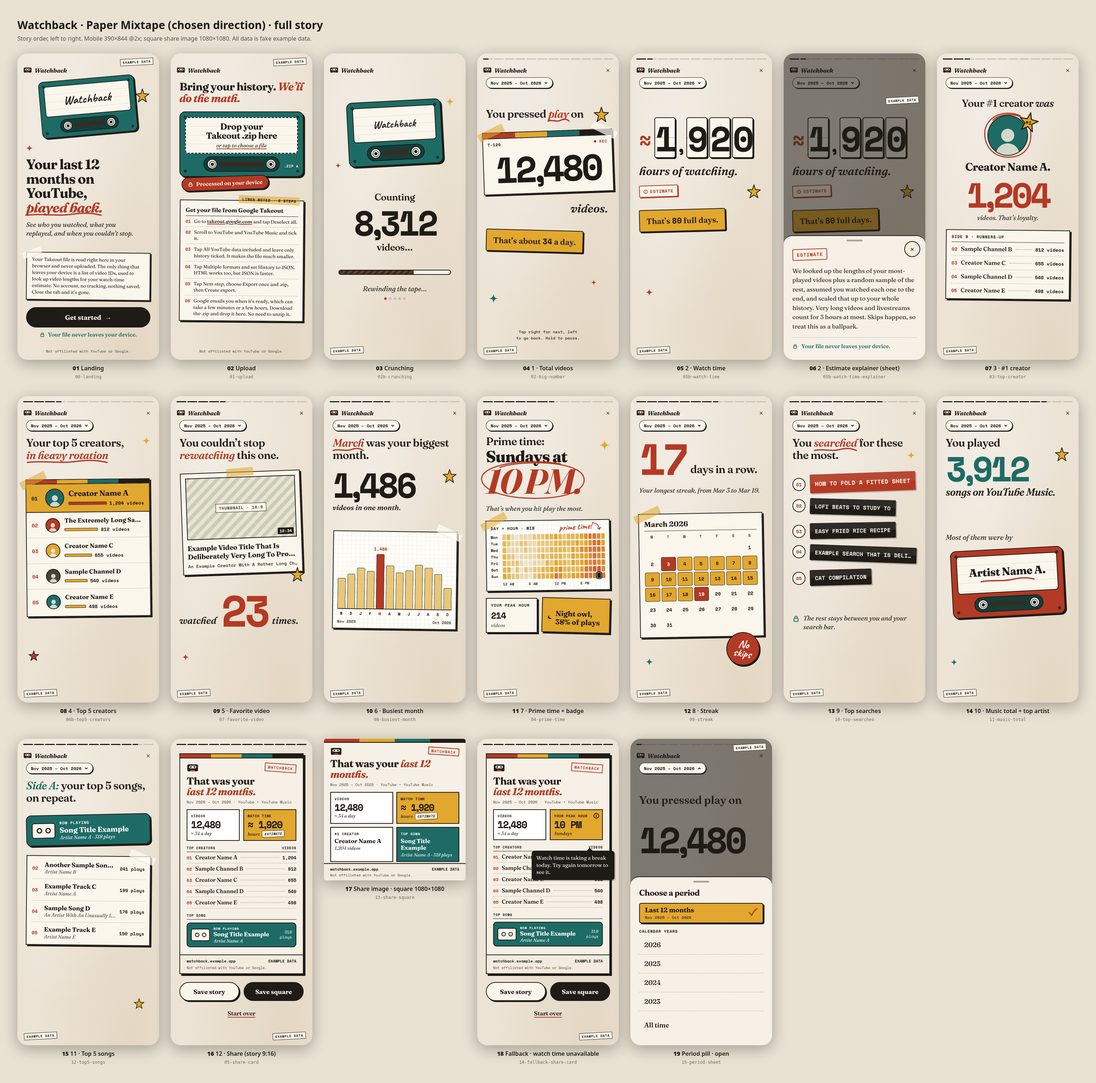
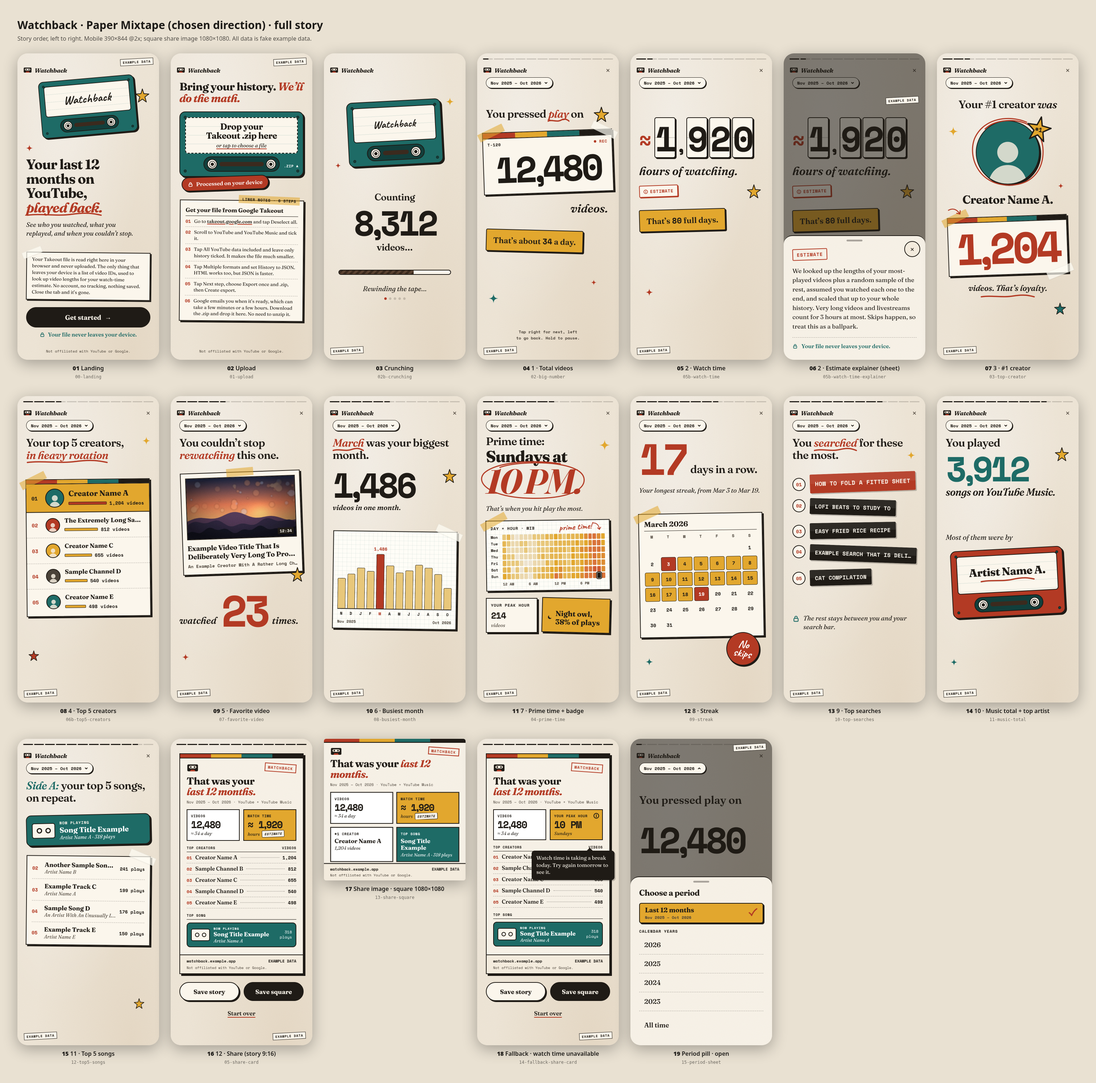
design: drop runners-up from #1 creator slide; real 16:9 thumbnail via /api/thumb on favorite video
- 03-top-creator: runners-up list removed (they live on 06b); bigger avatar,
  120px count in a taped VHS-style sticker, hand underline and doodles
- 07-favorite-video: abstract generated stand-in image (B/gen_thumb.py,
  B/img/thumb-example.jpg) in the taped frame, object-fit cover, alt = title
- SPEC: VideoThumb (source /api/thumb/{id}, 16:9 cover, placeholder fallback
  on error or >3s, alt from title, same-origin for html-to-image export);
  deco.runnersUp now unused
- Re-render 03, 07 and B-contact-full.png

Changed region(s): [[0.841, 0.0935, 0.9967, 0.2806], [0.1557, 0.4365, 0.2803, 0.4988]]

diff --git a/design/B/03-top-creator.html b/design/B/03-top-creator.html
@@ -1,37 +1,37 @@
 <!doctype html><html><head><meta charset="utf-8"><meta name="viewport" content="width=390"><link rel="stylesheet" href="style.css"><style>
-.wrap{padding-top:120px;text-align:center}
-.h{font-size:28px;font-weight:600;letter-spacing:-.02em}
+.wrap{padding-top:122px;text-align:center}
+.h{font-size:30px;font-weight:600;letter-spacing:-.02em}
 .h em{font-style:italic}
-.avw{position:relative;width:112px;height:112px;margin:16px auto 0}
-.av{width:112px;height:112px;border-radius:50%;background:var(--teal);border:2.5px solid var(--ink);overflow:hidden;display:flex;align-items:flex-end;justify-content:center}
-.stamp{position:absolute;right:-30px;top:-10px;transform:rotate(12deg);width:56px;height:56px}
-.stamp span{position:absolute;inset:0;display:grid;place-items:center;font-family:var(--mono);font-weight:700;font-size:14px;padding-top:4px}
-.name{font-size:30px;font-weight:700;letter-spacing:-.02em;margin-top:12px;position:relative;display:inline-block;max-width:100%}
+.avw{position:relative;width:176px;height:176px;margin:26px auto 0}
+.av{width:176px;height:176px;border-radius:50%;background:var(--teal);border:2.5px solid var(--ink);box-shadow:var(--sh-sticker);overflow:hidden;display:flex;align-items:flex-end;justify-content:center}
+.stamp{position:absolute;right:-34px;top:-14px;transform:rotate(12deg);width:72px;height:72px}
+.stamp span{position:absolute;inset:0;display:grid;place-items:center;font-family:var(--mono);font-weight:700;font-size:17px;padding-top:5px}
+.name{font-size:32px;font-weight:700;letter-spacing:-.02em;margin-top:22px;max-width:100%}
 .name .t{display:-webkit-box;-webkit-line-clamp:1;-webkit-box-orient:vertical;overflow:hidden}
-.count{color:var(--tomato);margin-top:6px}
-.line{font-size:18px;font-style:italic;margin-top:4px}
-.list{margin-top:22px;text-align:left;padding:10px 14px 4px;transform:rotate(.6deg)}
-.lh{font-family:var(--mono);font-size:11px;font-weight:700;letter-spacing:.08em;text-transform:uppercase;border-bottom:1.5px solid var(--ink);padding-bottom:6px}
-.row{display:flex;align-items:baseline;gap:10px;padding:8px 0;border-bottom:1px dashed var(--rule);font-size:16px;font-weight:600}
-.row:last-child{border:0}
-.row .n{font-family:var(--mono);font-size:13px;font-weight:700;color:var(--tomato)}
-.row .t{min-width:0;max-width:60%;white-space:nowrap;overflow:hidden;text-overflow:ellipsis}
-.row .dots{flex:1;border-bottom:2px dotted var(--rule);transform:translateY(-4px)}
-.row .v{font-family:var(--mono);font-size:13px;font-weight:700}
+.vhs{margin:26px 6px 0;padding:0 0 14px;transform:rotate(-2deg)}
+.stripes{display:flex;height:14px;border-bottom:2px solid var(--ink)}
+.stripes i{flex:1}
+.count{color:var(--tomato);font-size:var(--fs-hero-xl);margin-top:10px}
+.line{font-size:22px;font-style:italic;font-weight:600;margin-top:22px}
+.line .u{display:block;width:150px;margin:4px auto 0}
 </style></head><body><div class="screen"><div class="progress"><span class="on"></span><span class="on"></span><span class="half"></span><span></span><span></span><span></span><span></span><span></span><span></span><span></span><span></span><span></span></div><div class="topbar"><div class="brand"><svg aria-hidden="true" width="24" height="16" viewBox="0 0 22 15"><rect x="1" y="1" width="20" height="13" rx="2" fill="#1F1B16"/><rect x="4" y="3.5" width="14" height="5" rx="2.5" fill="#F3EBDD"/><circle cx="7.5" cy="6" r="1.5" fill="#1F1B16"/><circle cx="14.5" cy="6" r="1.5" fill="#1F1B16"/><path d="M6 14l1.5-3h7L16 14" fill="#B33A24"/></svg>Watchback</div><span class="close">✕</span></div><div class="period">Nov 2025 – Oct 2026 <svg aria-hidden="true" width="11" height="11" viewBox="0 0 12 12" fill="none" stroke="#1F1B16" stroke-width="2.2" stroke-linecap="round" stroke-linejoin="round"><path d="M3 4.5l3 3 3-3"/></svg></div>
+<div class="doodle" style="left:30px;top:200px"><svg aria-hidden="true" class="" style="width:30px;height:30px;color:#E2A72E;" viewBox="0 0 30 30"><path d="M15 2 C16 11 19 14 28 15 C19 16 16 19 15 28 C14 19 11 16 2 15 C11 14 14 11 15 2Z" fill="currentColor"/></svg></div>
+<div class="doodle" style="right:40px;top:356px"><svg aria-hidden="true" class="" style="width:18px;height:18px;color:#B33A24;" viewBox="0 0 30 30"><path d="M15 2 C16 11 19 14 28 15 C19 16 16 19 15 28 C14 19 11 16 2 15 C11 14 14 11 15 2Z" fill="currentColor"/></svg></div>
+<div class="doodle" style="left:34px;top:418px;transform:rotate(-30deg)"><svg aria-hidden="true" class="" style="width:34px;height:34px;color:#B33A24;" viewBox="0 0 26 26" fill="none" stroke="currentColor" stroke-width="2" stroke-linecap="round" stroke-linejoin="round"><path d="M2 4 C 12 4, 18 10, 19 22"/><path d="M14 18 L19 23 L23 17"/></svg></div>
+<div class="doodle" style="right:34px;bottom:120px"><svg aria-hidden="true" class="" style="width:34px;height:34px;color:#1E6B66;" viewBox="0 0 40 40"><path d="M20 2 L24 15 L38 16 L27 24 L31 38 L20 30 L9 38 L13 24 L2 16 L16 15 Z" fill="currentColor" stroke="#1F1B16" stroke-width="2" stroke-linejoin="round"/></svg></div>
 <div class="wrap">
 <div class="h">Your #1 creator <em>was</em></div>
 <div class="avw">
 <div class="av"><svg aria-hidden="true" viewBox="0 0 120 130" style="width:72%;height:auto"><circle cx="60" cy="46" r="28" fill="#F3EBDD" opacity=".85"/><path d="M8 132c4-34 26-52 52-52s48 18 52 52z" fill="#F3EBDD" opacity=".85"/></svg></div>
-<svg aria-hidden="true" class="" style="position:absolute;left:-12px;top:-12px;width:calc(100% + 24px);height:calc(100% + 24px);pointer-events:none;color:#B33A24;" viewBox="0 0 200 100" preserveAspectRatio="none" fill="none"><path d="M150 10 C 104 0, 36 4, 12 32 C -6 56, 22 92, 96 94 C 166 96, 198 72, 193 44 C 188 18, 146 6, 96 8 C 70 9, 52 13, 40 19" stroke="currentColor" stroke-width="3" stroke-linecap="round" vector-effect="non-scaling-stroke"/></svg>
-<div class="stamp"><svg aria-hidden="true" class="" style="width:56px;height:56px;color:#E2A72E;" viewBox="0 0 40 40"><path d="M20 2 L24 15 L38 16 L27 24 L31 38 L20 30 L9 38 L13 24 L2 16 L16 15 Z" fill="currentColor" stroke="#1F1B16" stroke-width="2" stroke-linejoin="round"/></svg><span>#1</span></div>
+<svg aria-hidden="true" class="" style="position:absolute;left:-16px;top:-16px;width:calc(100% + 32px);height:calc(100% + 30px);pointer-events:none;color:#B33A24;" viewBox="0 0 200 100" preserveAspectRatio="none" fill="none"><path d="M150 10 C 104 0, 36 4, 12 32 C -6 56, 22 92, 96 94 C 166 96, 198 72, 193 44 C 188 18, 146 6, 96 8 C 70 9, 52 13, 40 19" stroke="currentColor" stroke-width="3" stroke-linecap="round" vector-effect="non-scaling-stroke"/></svg>
+<div class="stamp"><svg aria-hidden="true" class="" style="width:72px;height:72px;color:#E2A72E;" viewBox="0 0 40 40"><path d="M20 2 L24 15 L38 16 L27 24 L31 38 L20 30 L9 38 L13 24 L2 16 L16 15 Z" fill="currentColor" stroke="#1F1B16" stroke-width="2" stroke-linejoin="round"/></svg><span>#1</span></div>
 </div>
 <div class="name"><span class="t">Creator Name A.</span></div>
+<div class="sticker vhs">
+<span class="tape" style="left:-16px;top:-11px;transform:rotate(-24deg)"></span><span class="tape c" style="right:-16px;bottom:-8px;transform:rotate(-20deg)"></span>
+<div class="stripes"><i style="background:#B33A24"></i><i style="background:#E2A72E"></i><i style="background:#1E6B66"></i><i style="background:#1F1B16"></i></div>
 <div class="count hero-n">1<span class="cm">,</span>204</div>
-<div class="line">videos. That’s loyalty.</div>
-<div class="sticker list">
-<div class="lh">Side B · Runners-up</div>
-<div class="row"><span class="n">02</span><span class="t">Sample Channel B</span><span class="dots"></span><span class="v">812 videos</span></div><div class="row"><span class="n">03</span><span class="t">Creator Name C</span><span class="dots"></span><span class="v">655 videos</span></div><div class="row"><span class="n">04</span><span class="t">Sample Channel D</span><span class="dots"></span><span class="v">540 videos</span></div><div class="row"><span class="n">05</span><span class="t">Creator Name E</span><span class="dots"></span><span class="v">498 videos</span></div>
 </div>
+<div class="line">videos. That’s loyalty.<span class="u"><svg aria-hidden="true" class="" style="display:block;width:100%;height:10px;color:#B33A24;" viewBox="0 0 200 14" preserveAspectRatio="none" fill="none"><path d="M3 9 C 40 3, 80 13, 120 6 S 178 4, 197 9" stroke="currentColor" stroke-width="3.5" stroke-linecap="round" vector-effect="non-scaling-stroke"/></svg></span></div>
 </div>
 <span class="example bl">Example data</span></div></body></html>

diff --git a/design/B/07-favorite-video.html b/design/B/07-favorite-video.html
@@ -3,6 +3,7 @@ h1{position:absolute;top:112px;left:24px;right:24px;font-size:30px;font-weight:6
 h1 em{font-style:italic;color:var(--tomato)}
 .pol{position:absolute;top:208px;left:30px;right:30px;padding:12px 12px 14px;transform:rotate(-2deg)}
 .thumb{aspect-ratio:16/9;border:2px solid var(--ink);background-color:var(--paper-dark);background-image:repeating-linear-gradient(-45deg,rgba(30,107,102,.18) 0 10px,transparent 10px 20px);display:grid;place-items:center;position:relative}
+.thumb img{position:absolute;inset:0;width:100%;height:100%;object-fit:cover;display:block}
 .thumb .ph{font-family:var(--mono);font-size:11px;font-weight:700;letter-spacing:.08em;color:var(--ink2);background:var(--paper2);border:1.5px solid var(--ink);padding:3px 8px}
 .thumb .dur{position:absolute;right:6px;bottom:6px;font-family:var(--mono);font-size:11px;font-weight:700;background:var(--ink);color:var(--paper2);padding:1px 5px;border-radius:2px}
 .cap{margin-top:12px}
@@ -19,7 +20,7 @@ h1 em{font-style:italic;color:var(--tomato)}
 <h1>You couldn’t stop <em>rewatching</em> this one.</h1>
 <div class="sticker pol">
 <span class="tape" style="left:50%;top:-12px;transform:translateX(-50%) rotate(-3deg)"></span>
-<div class="thumb"><span class="ph">THUMBNAIL · 16:9</span><span class="dur">12:34</span></div>
+<div class="thumb"><img src="img/thumb-example.jpg" alt="Example Video Title That Is Deliberately Very Long To Prove The Two Line Clamp Works On Small Phones Every Time"><span class="dur">12:34</span></div>
 <div class="cap"><div class="t">Example Video Title That Is Deliberately Very Long To Prove The Two Line Clamp Works On Small Phones Every Time</div><div class="c">An Example Creator With A Rather Long Channel Name Too</div></div>
 </div>
 <div class="doodle" style="right:20px;top:470px"><svg aria-hidden="true" class="" style="width:42px;height:42px;color:#E2A72E;" viewBox="0 0 40 40"><path d="M20 2 L24 15 L38 16 L27 24 L31 38 L20 30 L9 38 L13 24 L2 16 L16 15 Z" fill="currentColor" stroke="#1F1B16" stroke-width="2" stroke-linejoin="round"/></svg></div>

diff --git a/design/B/gen_b.py b/design/B/gen_b.py
@@ -239,44 +239,43 @@ def wt_body(sheet=False):
 page('05b-watch-time', WT_CSS, wt_body())
 page('05b-watch-time-explainer', WT_CSS, wt_body(True))
 
-# ================================================================ 03 top creator
-rows = [('02', 'Sample Channel B', '812'), ('03', 'Creator Name C', '655'), ('04', 'Sample Channel D', '540'), ('05', 'Creator Name E', '498')]
+# ================================================================ 03 top creator (runners-up removed: they live on 06b)
 AVATAR = '<svg aria-hidden="true" viewBox="0 0 120 130" style="width:72%;height:auto"><circle cx="60" cy="46" r="28" fill="#F3EBDD" opacity=".85"/><path d="M8 132c4-34 26-52 52-52s48 18 52 52z" fill="#F3EBDD" opacity=".85"/></svg>'
 page('03-top-creator', '''
-.wrap{padding-top:120px;text-align:center}
-.h{font-size:28px;font-weight:600;letter-spacing:-.02em}
+.wrap{padding-top:122px;text-align:center}
+.h{font-size:30px;font-weight:600;letter-spacing:-.02em}
 .h em{font-style:italic}
-.avw{position:relative;width:112px;height:112px;margin:16px auto 0}
-.av{width:112px;height:112px;border-radius:50%;background:var(--teal);border:2.5px solid var(--ink);overflow:hidden;display:flex;align-items:flex-end;justify-content:center}
-.stamp{position:absolute;right:-30px;top:-10px;transform:rotate(12deg);width:56px;height:56px}
-.stamp span{position:absolute;inset:0;display:grid;place-items:center;font-family:var(--mono);font-weight:700;font-size:14px;padding-top:4px}
-.name{font-size:30px;font-weight:700;letter-spacing:-.02em;margin-top:12px;position:relative;display:inline-block;max-width:100%}
+.avw{position:relative;width:176px;height:176px;margin:26px auto 0}
+.av{width:176px;height:176px;border-radius:50%;background:var(--teal);border:2.5px solid var(--ink);box-shadow:var(--sh-sticker);overflow:hidden;display:flex;align-items:flex-end;justify-content:center}
+.stamp{position:absolute;right:-34px;top:-14px;transform:rotate(12deg);width:72px;height:72px}
+.stamp span{position:absolute;inset:0;display:grid;place-items:center;font-family:var(--mono);font-weight:700;font-size:17px;padding-top:5px}
+.name{font-size:32px;font-weight:700;letter-spacing:-.02em;margin-top:22px;max-width:100%}
 .name .t{display:-webkit-box;-webkit-line-clamp:1;-webkit-box-orient:vertical;overflow:hidden}
-.count{color:var(--tomato);margin-top:6px}
-.line{font-size:18px;font-style:italic;margin-top:4px}
-.list{margin-top:22px;text-align:left;padding:10px 14px 4px;transform:rotate(.6deg)}
-.lh{font-family:var(--mono);font-size:11px;font-weight:700;letter-spacing:.08em;text-transform:uppercase;border-bottom:1.5px solid var(--ink);padding-bottom:6px}
-.row{display:flex;align-items:baseline;gap:10px;padding:8px 0;border-bottom:1px dashed var(--rule);font-size:16px;font-weight:600}
-.row:last-child{border:0}
-.row .n{font-family:var(--mono);font-size:13px;font-weight:700;color:var(--tomato)}
-.row .t{min-width:0;max-width:60%;white-space:nowrap;overflow:hidden;text-overflow:ellipsis}
-.row .dots{flex:1;border-bottom:2px dotted var(--rule);transform:translateY(-4px)}
-.row .v{font-family:var(--mono);font-size:13px;font-weight:700}
+.vhs{margin:26px 6px 0;padding:0 0 14px;transform:rotate(-2deg)}
+.stripes{display:flex;height:14px;border-bottom:2px solid var(--ink)}
+.stripes i{flex:1}
+.count{color:var(--tomato);font-size:var(--fs-hero-xl);margin-top:10px}
+.line{font-size:22px;font-style:italic;font-weight:600;margin-top:22px}
+.line .u{display:block;width:150px;margin:4px auto 0}
 ''', prog(3) + TOP + PERIOD + f'''
+<div class="doodle" style="left:30px;top:200px">{spark(30, MUSTARD)}</div>
+<div class="doodle" style="right:40px;top:356px">{spark(18, TOMATO)}</div>
+<div class="doodle" style="left:34px;top:418px;transform:rotate(-30deg)">{arrow(34)}</div>
+<div class="doodle" style="right:34px;bottom:120px">{star(34, TEAL)}</div>
 <div class="wrap">
 <div class="h">Your #1 creator <em>was</em></div>
 <div class="avw">
 <div class="av">{AVATAR}</div>
-{circle(12,12,12,12)}
-<div class="stamp">{star(56)}<span>#1</span></div>
+{circle(16,16,16,14)}
+<div class="stamp">{star(72)}<span>#1</span></div>
 </div>
 <div class="name"><span class="t">Creator Name A.</span></div>
+<div class="sticker vhs">
+<span class="tape" style="left:-16px;top:-11px;transform:rotate(-24deg)"></span><span class="tape c" style="right:-16px;bottom:-8px;transform:rotate(-20deg)"></span>
+{STRIPES}
 <div class="count hero-n">1<span class="cm">,</span>204</div>
-<div class="line">videos. That’s loyalty.</div>
-<div class="sticker list">
-<div class="lh">Side B · Runners-up</div>
-{''.join(f'<div class="row"><span class="n">{n}</span><span class="t">{t}</span><span class="dots"></span><span class="v">{v} videos</span></div>' for n, t, v in rows)}
 </div>
+<div class="line">videos. That’s loyalty.<span class="u">{underline(TOMATO, 10)}</span></div>
 </div>
 ''' + EX('bl'))
 
@@ -320,6 +319,7 @@ h1{position:absolute;top:112px;left:24px;right:24px;font-size:30px;font-weight:6
 h1 em{font-style:italic;color:var(--tomato)}
 .pol{position:absolute;top:208px;left:30px;right:30px;padding:12px 12px 14px;transform:rotate(-2deg)}
 .thumb{aspect-ratio:16/9;border:2px solid var(--ink);background-color:var(--paper-dark);background-image:repeating-linear-gradient(-45deg,rgba(30,107,102,.18) 0 10px,transparent 10px 20px);display:grid;place-items:center;position:relative}
+.thumb img{position:absolute;inset:0;width:100%;height:100%;object-fit:cover;display:block}
 .thumb .ph{font-family:var(--mono);font-size:11px;font-weight:700;letter-spacing:.08em;color:var(--ink2);background:var(--paper2);border:1.5px solid var(--ink);padding:3px 8px}
 .thumb .dur{position:absolute;right:6px;bottom:6px;font-family:var(--mono);font-size:11px;font-weight:700;background:var(--ink);color:var(--paper2);padding:1px 5px;border-radius:2px}
 .cap{margin-top:12px}
@@ -336,7 +336,7 @@ h1 em{font-style:italic;color:var(--tomato)}
 <h1>You couldn’t stop <em>rewatching</em> this one.</h1>
 <div class="sticker pol">
 <span class="tape" style="left:50%;top:-12px;transform:translateX(-50%) rotate(-3deg)"></span>
-<div class="thumb"><span class="ph">THUMBNAIL · 16:9</span><span class="dur">12:34</span></div>
+<div class="thumb"><img src="img/thumb-example.jpg" alt="Example Video Title That Is Deliberately Very Long To Prove The Two Line Clamp Works On Small Phones Every Time"><span class="dur">12:34</span></div>
 <div class="cap"><div class="t">Example Video Title That Is Deliberately Very Long To Prove The Two Line Clamp Works On Small Phones Every Time</div><div class="c">An Example Creator With A Rather Long Channel Name Too</div></div>
 </div>
 <div class="doodle" style="right:20px;top:470px">{star(42)}</div>

diff --git a/design/B/gen_thumb.py b/design/B/gen_thumb.py
@@ -1,0 +1,29 @@
+# Generates an abstract stand-in for a video thumbnail (no real YouTube content).
+# 1280x720 JPEG: dusk gradient, soft bokeh, layered hills, film grain.
+import numpy as np
+from PIL import Image, ImageDraw, ImageFilter
+W, H = 1280, 720
+rng = np.random.default_rng(42)
+y = np.linspace(0, 1, H)[:, None]; x = np.linspace(0, 1, W)[None, :]
+top, mid, low = np.array([38, 52, 92]), np.array([222, 120, 84]), np.array([248, 196, 120])
+t = np.clip(y * 1.25, 0, 1)
+sky = np.where(t[..., None] < .55, top + (mid - top) * (t[..., None] / .55), mid + (low - mid) * ((t[..., None] - .55) / .45))
+sky = np.broadcast_to(sky, (H, W, 3)).astype(float).copy()
+sun = np.exp(-(((x - .68) ** 2) / .012 + ((y - .58) ** 2) / .02))
+sky += sun[..., None] * np.array([60, 50, 20])
+img = Image.fromarray(np.clip(sky, 0, 255).astype('uint8'))
+bokeh = Image.new('RGBA', (W, H), (0, 0, 0, 0)); d = ImageDraw.Draw(bokeh)
+for _ in range(38):
+    cx, cy, r = rng.integers(0, W), rng.integers(40, 420), rng.integers(10, 46)
+    c = tuple(int(v) for v in rng.choice([[255, 214, 160], [255, 170, 120], [200, 220, 255]])) + (int(rng.integers(40, 110)),)
+    d.ellipse([cx - r, cy - r, cx + r, cy + r], fill=c)
+img = Image.alpha_composite(img.convert('RGBA'), bokeh.filter(ImageFilter.GaussianBlur(6)))
+d = ImageDraw.Draw(img)
+for base, amp, freq, col in [(470, 60, 2.1, (88, 62, 92)), (540, 50, 3.3, (52, 44, 70)), (620, 40, 4.7, (24, 26, 40))]:
+    pts = [(i, base - amp * (np.sin(i / W * np.pi * freq + base) * .6 + np.sin(i / W * np.pi * freq * 2.7) * .4)) for i in range(0, W + 8, 8)]
+    d.polygon(pts + [(W, H), (0, H)], fill=col + (255,))
+img = img.convert('RGB').filter(ImageFilter.GaussianBlur(1.2))
+arr = np.asarray(img).astype(float) + rng.normal(0, 7, (H, W, 1))
+vig = 1 - .35 * (((x - .5) ** 2) / .25 + ((y - .5) ** 2) / .25)
+Image.fromarray(np.clip(arr * np.clip(vig, .55, 1)[..., None], 0, 255).astype('uint8')).save('img/thumb-example.jpg', quality=86)
+print('ok')

diff --git a/design/SPEC.md b/design/SPEC.md
@@ -35,7 +35,7 @@ For Frontend Dev. Direction B, picked by vedrico. Mockups: `B/*.png` (story orde
 | **HandCircle / Underline** | `assets/hand-circle.svg` and `underline.svg` use `stroke="currentColor"` and `vector-effect: non-scaling-stroke`, so they stretch to any box. Position absolute, with the circle inset −12 to −16px around the target. Colour is tomato. Animate with `stroke-dasharray` draw-on. |
 | **Heatmap** | 7×24 grid with Mon–Sun rows and a 30px label column. The cells are 15px tall with a 2px gap, drawn from heat ramp `--color-heat-0..7`. The peak cell is ink with a 2.5px ink outline at 1.5px offset, and the Caveat note "prime time!" plus `arrow.svg` sit above it. Axis ticks are 12 AM / 6 AM / 12 PM / 6 PM. The header shows the user's tz label. Accessible as a `<table>` that's visually hidden, or with `aria-label` "Most plays: Sunday 10 PM, 214 videos". |
 | **BarChart** | 12 columns. For last 12 months and a calendar year, these are the months of the period. For All time, they're the 12 months of the calendar year that contains the busiest month, and the axis shows that year. Bars are `heat-2` with a 1.5px ink outline and 3px top radius. The peak bar is tomato with its value above it in mono 12px tomato. Month initials sit underneath, the peak initial in tomato. The first and last month are full under the axis. The height scale is max = 150px. |
-| **RankList** | J-card sticker. Each row has a mono rank (tomato, or ink on mustard), a 1-line clamped name, and a value in mono 13px. Variants: **creators** (40px avatar, 52px for #1, mustard row for #1, proportional bar ≤62% width under the name), **runners-up** (dotted leader, `Side B · Runners-up` header), **songs** (title plus italic artist, both 1-line clamps, plays on the right), and **searches** (label-maker tapes: ink bg, paper text, mono uppercase 15px, rotated ±2°, #1 tomato). |
+| **RankList** | J-card sticker. Each row has a mono rank (tomato, or ink on mustard), a 1-line clamped name, and a value in mono 13px. Variants: **creators** (40px avatar, 52px for #1, mustard row for #1, proportional bar ≤62% width under the name), **songs** (title plus italic artist, both 1-line clamps, plays on the right), and **searches** (label-maker tapes: ink bg, paper text, mono uppercase 15px, rotated ±2°, #1 tomato). |
 | **EstimateChip** | Mono 12px uppercase tomato with a 2px tomato border, rotated −2°, plus an ⓘ icon. The visual height is 30px inside a 44px hit area. Opens the **BottomSheet** with `watchTime.chipExplainer`. On the share card it becomes a static ink/paper variant (not interactive in the image). |
 | **BottomSheet** | `paper-2` + grain, a 2px ink top border, 24px top radius, a 44×5 handle, and a ✕ button (44×44 round, `aria-label` "Close"). The scrim is `--scrim`. Use `role="dialog" aria-modal`, trap focus, close on Esc. The story pauses while it's open. |
 | **ShareCard** | Lay it out at **360×640 CSS px** for story and **360×360** for square, and export with `pixelRatio: 3` → **1080×1920** and **1080×1080** PNGs (`html-to-image` or canvas). The in-app preview scales it to 342px wide. Use web fonts only once `document.fonts.ready` resolves. Contents: stripe header, cassette icon + `WATCHBACK` stamp, the period headline from `share.headline`, range + "YouTube + YouTube Music", the Videos tile, the Watch-time tile (or the peak-hour tile, see §6), top 5 creators (square: #1 only), the top song with `Now playing`, and a footer with the URL and the disclaimer. The "Example data" tags exist in mockups only. Buttons sit below the card: `Save story` (secondary) and `Save square` (primary), with a `Start over` text link (44px tall) under them. |
@@ -47,9 +47,9 @@ Pre-story screens: **00-landing → 01-upload → 02b-crunching**. Story (12 sli
 |---|---|---|---|
 | 1 | 02-big-number | totalVideos | The lead headline is split around the hero: "You pressed *play* on" (underline under *play*), the VHSLabel hero (100px), then "videos." in italic 32px, right-aligned. The `sub` goes in a mustard sticker. |
 | 2 | 05b-watch-time | watchTime | A tomato "≈" (56px) followed by a tape-counter hero: each digit in a 58×112 paper box with a 96px digit. Then "hours of watching." in italic 32px, the EstimateChip, and `sub` in a mustard sticker. The `-explainer` variant shows the open sheet. |
-| 3 | 03-top-creator | topCreator + deco.runnersUp | Centered. The headline is split as "Your #1 creator *was*", then a 112px avatar circle with a hand circle and star "#1", then the name (30px, 1-line clamp, trailing "."), the hero count (96px tomato), and "videos. That's loyalty." Runners-up 2–5 go in a sticker below. |
+| 3 | 03-top-creator | topCreator | Centered, with no runners-up list (they live on slide 4). The headline is split as "Your #1 creator *was*". Below it: a 176px avatar circle (`shadow-sticker`) with a hand circle and a 72px star stamp "#1", then the name (32px, 1-line clamp, trailing "."). The hero count (120px tomato) sits in a VHSLabel-style sticker with stripes, rotated −2° with two tapes. Last comes "videos. That's loyalty." (22px italic) with a hand underline. Decorative sparkles, arrow and star fill the margins (`aria-hidden`). |
 | 4 | 06b-top5-creators | topCreators | Headline with an underline under "in heavy rotation". A J-card RankList where the #1 row is mustard. |
-| 5 | 07-favorite-video | favoriteVideo | A polaroid sticker with tape. The thumbnail placeholder is 16:9 (see §7). The title is clamped to **2 lines** (Fraunces 19px/700), then the creator in mono 12px with a 1-line ellipsis. The hero reads "watched **23** times." with 120px tomato digits. |
+| 5 | 07-favorite-video | favoriteVideo | A polaroid sticker with tape around a **VideoThumb** (see §7). The title is clamped to **2 lines** (Fraunces 19px/700), then the creator in mono 12px with a 1-line ellipsis. The hero reads "watched **23** times." with 120px tomato digits. |
 | 6 | 08-busiest-month | busiestMonth | Headline with the month underlined. Hero count 96px + "videos in one month." Then the BarChart on a graph-paper sticker. |
 | 7 | 04-prime-time | primeTime | "Prime time:" 30px / "Sundays at" 44px/800 / "10 PM." 96px italic tomato inside a hand circle. Then `sub`, the Heatmap, and two stickers: `peakLabel` + count + "videos", and a mustard badge card with the icon + `badgeShare` ("Night owl, 38% of plays"). **This covers the `peak-hour-badge` slide.** Frontend can drop that separate slide. |
 | 8 | 09-streak | bingeStreak + deco.streakSticker | Hero "17" (120px tomato) + "days in a row." on one baseline. `sub` sits below. A month calendar sticker (Mon-first), with streak days in mustard and start/end in tomato with white text. If the streak spans 2 months, show both months stacked and shrink the cells to 30px. A tomato round "No skips" sticker at the bottom-right corner. |
@@ -95,6 +95,14 @@ All enters are ≤600ms and staggered by 60–80ms per element. The default easi
 
 ## 7. Notes
 - **No YouTube logo, no red play button, no YouTube red.** Tomato `#B33A24` is the brand accent. "Not affiliated with YouTube or Google." goes on landing, upload, and both share images.
-- **Thumbnails**: the favorite-video slide uses a generated placeholder (paper-dark + teal hatch + duration if known). Loading `i.ytimg.com` thumbnails would send that video ID and the user's IP to Google from the browser, which `privacy.body` doesn't cover. Only switch to real thumbnails after Copywriter/Project Lead update the privacy copy.
+- **VideoThumb (favorite video)**
+  - Source: `<img src="/api/thumb/{id}">`, our own proxy route. The browser never calls `i.ytimg.com` directly.
+  - Frame: 16:9 box (`aspect-ratio: 16/9`), 2px ink border, image `object-fit: cover` filling it, with a duration chip (mono 11px, paper on ink) bottom-right if known.
+  - Alt text: the video title (`alt={favoriteVideo.title}`). The visible title below is clamped, but the alt is the full title.
+  - Fallback: the generated placeholder (paper-dark + 45° teal hatch, no text) shows while loading. It stays if the image errors (`onError`) **or hasn't loaded within 3s** (cancel by ignoring a late `onLoad`, so the slide doesn't jump mid-view). Fade the image in over 200ms when it arrives; no fade with reduced motion.
+  - Export: the image **must be same-origin** (which `/api/thumb` is) so `html-to-image` can inline it without tainting the canvas. Never fall back to a cross-origin URL. If the image failed, the placeholder is what gets exported.
+  - Share cards don't show a thumbnail today.
+  - Mockup stand-in: `B/img/thumb-example.jpg` is a generated abstract image (`B/gen_thumb.py`), not YouTube content.
+- **Unused deco string**: `deco.runnersUp` ("Side B · Runners-up") is no longer used now that the runners-up list is off slide 3. Copywriter can delete it or keep it for later.
 - "Example data" tags are mockup-only.
 - Re-render mockups: `cd design && npm i && cd B && python3 gen_b.py && cd .. && node render.js B`.
